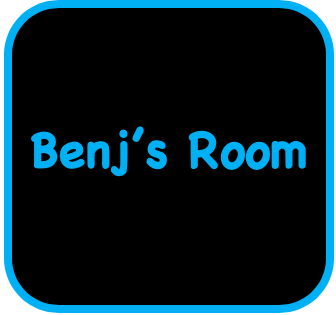
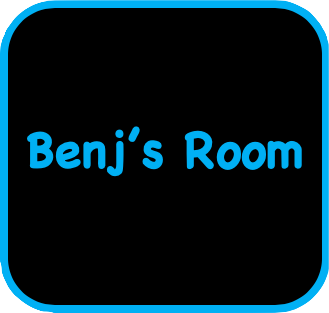
trying to add an image for the 'save to home-screen' feature on iphones

Changed region(s): [[0.0, 0.0, 1.0, 1.0], [0.5775, 0.4026, 0.9422, 0.5463], [0.4255, 0.4313, 0.5167, 0.5463]]

diff --git a/public/index.html b/public/index.html
@@ -2,13 +2,14 @@
 <html lang="en">
 <head>
   <meta charset="UTF-8">
-  <title>Temp</title>
+  <title>Benj's Room</title>
   <link rel="stylesheet" href="https://maxcdn.bootstrapcdn.com/bootstrap/4.0.0/css/bootstrap.min.css">
   <link rel="stylesheet" href="https://use.fontawesome.com/releases/v5.7.2/css/all.css" integrity="sha384-fnmOCqbTlWIlj8LyTjo7mOUStjsKC4pOpQbqyi7RrhN7udi9RwhKkMHpvLbHG9Sr" crossorigin="anonymous">
   <script src="https://cdnjs.cloudflare.com/ajax/libs/Chart.js/2.7.3/Chart.bundle.js"></script>
   <script src="https://code.jquery.com/jquery.js"></script>
   <script src="https://maxcdn.bootstrapcdn.com/bootstrap/4.0.0/js/bootstrap.min.js"></script>
   <link rel="stylesheet" href="./css/style.css" type="text/css"/>
+  <link rel="apple-touch-icon" href="./images/apple-touch-icon.png" type="image/gif" sizes="150x150">
   <link rel="icon" href="./images/apple-touch-icon.png" type="image/gif" sizes="150x150">
 </head>
 <body>
